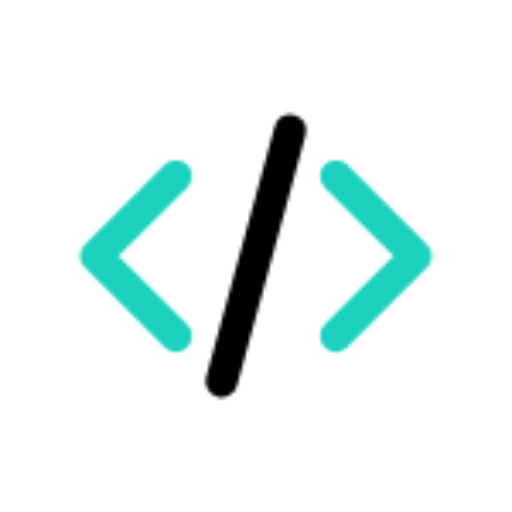
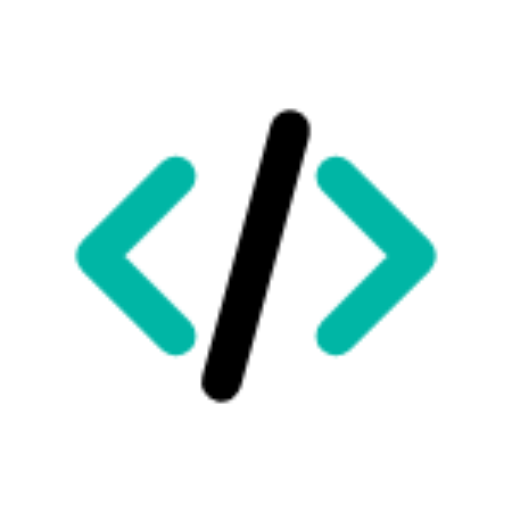
Contrast adjustments for a11y considerations

Changed region(s): [[0.125, 0.1875, 0.875, 0.8125]]

diff --git a/src/components/Navigation.tsx b/src/components/Navigation.tsx
@@ -136,7 +136,7 @@ function FlyoutNavigation() {
                                                                 location
                                                                 ? "bg-gray-100 text-gray-900"
                                                                 : "text-gray-600 hover:bg-gray-50 hover:text-gray-900",
-                                                            "group flex items-center px-2 py-2 text-lg md:text-xl font-medium rounded-md focus-outline focus:ring-teal-400 motion-safe:transition-all"
+                                                            "group flex items-center px-2 py-2 text-lg md:text-xl font-medium rounded-md focus-outline focus:ring-teal-500 motion-safe:transition-all"
                                                         )}
                                                         onClick={() =>
                                                             setIsOpen(false)
@@ -146,8 +146,8 @@ function FlyoutNavigation() {
                                                             className={classNames(
                                                                 link.location ==
                                                                     location
-                                                                    ? "text-teal-400"
-                                                                    : "text-gray-400 group-hover:text-teal-400",
+                                                                    ? "text-teal-500"
+                                                                    : "text-gray-400 group-hover:text-teal-500",
                                                                 "mr-4 flex-shrink-0 h-8 w-8 motion-safe:transition-all"
                                                             )}
                                                             aria-hidden="true"
@@ -197,14 +197,14 @@ function StaticNavigation() {
                                                 link.location == location
                                                     ? "bg-gray-100 text-gray-900"
                                                     : "text-gray-600 hover:bg-gray-50 hover:text-gray-900",
-                                                "group flex items-center px-2 py-2 text-lg md:text-xl font-medium rounded-md focus-outline focus:ring-teal-400 motion-safe:transition-all"
+                                                "group flex items-center px-2 py-2 text-lg md:text-xl font-medium rounded-md focus-outline focus:ring-teal-500 motion-safe:transition-all"
                                             )}
                                         >
                                             <link.icon
                                                 className={classNames(
                                                     link.location == location
-                                                        ? "text-teal-400"
-                                                        : "text-gray-400 group-hover:text-teal-400 motion-safe:transition-all",
+                                                        ? "text-teal-500"
+                                                        : "text-gray-400 group-hover:text-teal-500 motion-safe:transition-all",
                                                     "mr-4 flex-shrink-0 h-8 w-8"
                                                 )}
                                                 aria-hidden="true"

diff --git a/src/components/Clients.tsx b/src/components/Clients.tsx
@@ -153,7 +153,7 @@ const Clients = forwardRef<HTMLElement>((props, ref) => {
                                             {client.name}
                                         </span>
                                         <client.logo
-                                            className="aspect-[3/2] text-slate-600 md:group-hover:text-teal-400 md:group-hover:scale-110 md:group-focus:text-teal-400 md:group-focus:scale-110 motion-safe:transition-all"
+                                            className="aspect-[3/2] text-slate-600 md:group-hover:text-teal-500 md:group-hover:scale-110 md:group-focus:text-teal-500 md:group-focus:scale-110 motion-safe:transition-all"
                                             aria-hidden="true"
                                         />
                                     </Link>

diff --git a/src/components/About.tsx b/src/components/About.tsx
@@ -57,7 +57,7 @@ const About = forwardRef<HTMLElement>((props, ref) => {
                     <Link
                         href="/#intro"
                         scroll={false}
-                        className="hidden md:inline-flex items-center bg-teal-400 hover:bg-teal-500 rounded-full border-none px-6 py-2 text-white text-lg md:text-xl font-medium shadow-lg hover:cursor-pointer focus-outline focus:ring-white motion-safe:transition-all"
+                        className="hidden md:inline-flex items-center bg-teal-500 hover:bg-teal-600 rounded-full border-none px-6 py-2 text-white text-lg md:text-xl font-medium shadow-lg hover:cursor-pointer focus-outline focus:ring-white motion-safe:transition-all"
                     >
                         Learn more
                         <DownArrowIcon

diff --git a/src/components/Contact.tsx b/src/components/Contact.tsx
@@ -14,7 +14,7 @@ const Contact = forwardRef<HTMLElement>((props, ref) => {
                     <Link
                         href="mailto:mail@johnbaker.ca"
                         scroll={false}
-                        className="inline-flex items-center bg-teal-400 hover:bg-teal-500 rounded-full border-none px-6 py-2 text-white text-lg md:text-xl font-medium shadow-lg hover:cursor-pointer focus-outline focus:ring-white motion-safe:transition-all"
+                        className="inline-flex items-center bg-teal-500 hover:bg-teal-600 rounded-full border-none px-6 py-2 text-white text-lg md:text-xl font-medium shadow-lg hover:cursor-pointer focus-outline focus:ring-white motion-safe:transition-all"
                     >
                         Contact Me
                         <EnvelopeIcon

diff --git a/src/components/Projects/index.tsx b/src/components/Projects/index.tsx
@@ -83,7 +83,7 @@ export default function Project({
                                             href={link.url}
                                             target="_blank"
                                             rel="noopener noreferrer"
-                                            className="flex items-center px-2 py-2 rounded-md text-gray-400 hover:text-teal-400 focus-outline focus:ring-teal-400 motion-safe:transition-all"
+                                            className="flex items-center px-2 py-2 rounded-md text-gray-400 hover:text-teal-500 focus-outline focus:ring-teal-500 motion-safe:transition-all"
                                         >
                                             <span className="sr-only">
                                                 {link.name}

diff --git a/src/components/Footer.tsx b/src/components/Footer.tsx
@@ -47,7 +47,7 @@ export default function Footer() {
                                 href={link.href}
                                 target="_blank"
                                 rel="noopener noreferrer"
-                                className="flex items-center px-2 py-2 rounded-md text-gray-400 hover:text-teal-400 focus-outline focus:ring-teal-400 motion-safe:transition-all"
+                                className="flex items-center px-2 py-2 rounded-md text-gray-400 hover:text-teal-500 focus-outline focus:ring-teal-500 motion-safe:transition-all"
                             >
                                 <span className="sr-only">{link.name}</span>
                                 <link.icon

diff --git a/src/assets/svg/icons/CodeIcon.tsx b/src/assets/svg/icons/CodeIcon.tsx
@@ -23,7 +23,7 @@ export default function CodeIcon({
                 strokeLinecap="round"
                 strokeLinejoin="round"
                 d="M17.25,6.75l5.25,5.25-5.25,5.25m-10.5,0L1.5,12,6.75,6.75"
-                style={{ fill: "none", stroke: "#1cd2be" }}
+                style={{ fill: "none", stroke: "#00b6a5" }}
             />
         </svg>
     );
